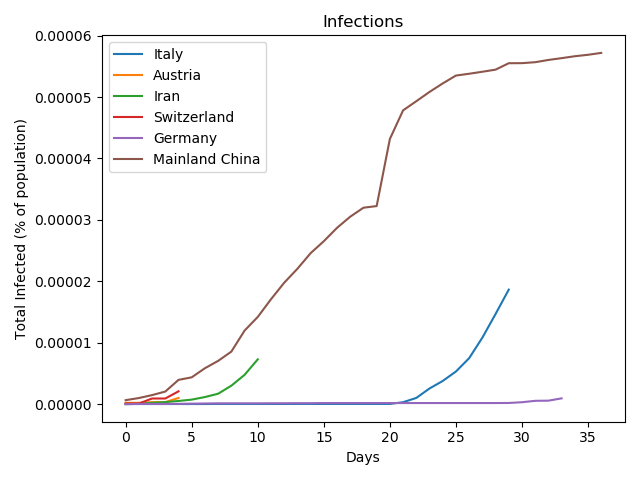
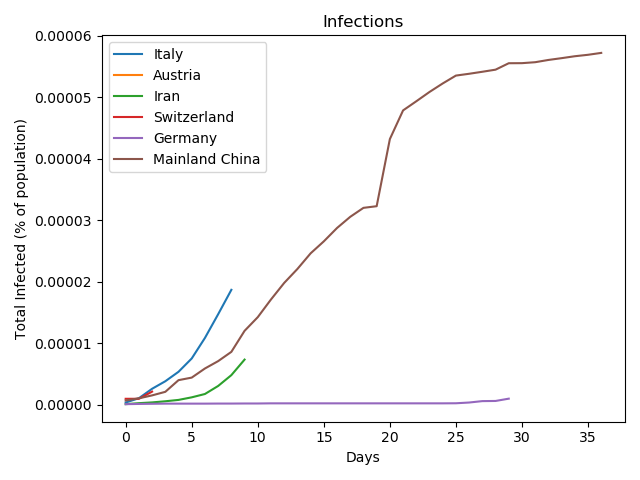
add minimum infected for synchronisation

diff --git a/visualise_covid_per_country.py b/visualise_covid_per_country.py
@@ -7,7 +7,7 @@ import numpy as np
 fname='csse_covid_19_data/csse_covid_19_time_series/time_series_19-covid-Confirmed.csv'
 
 population_normalise = True
-min_infected = 1
+min_infected = 5
 
 def isNaN(num):
     return num != num
